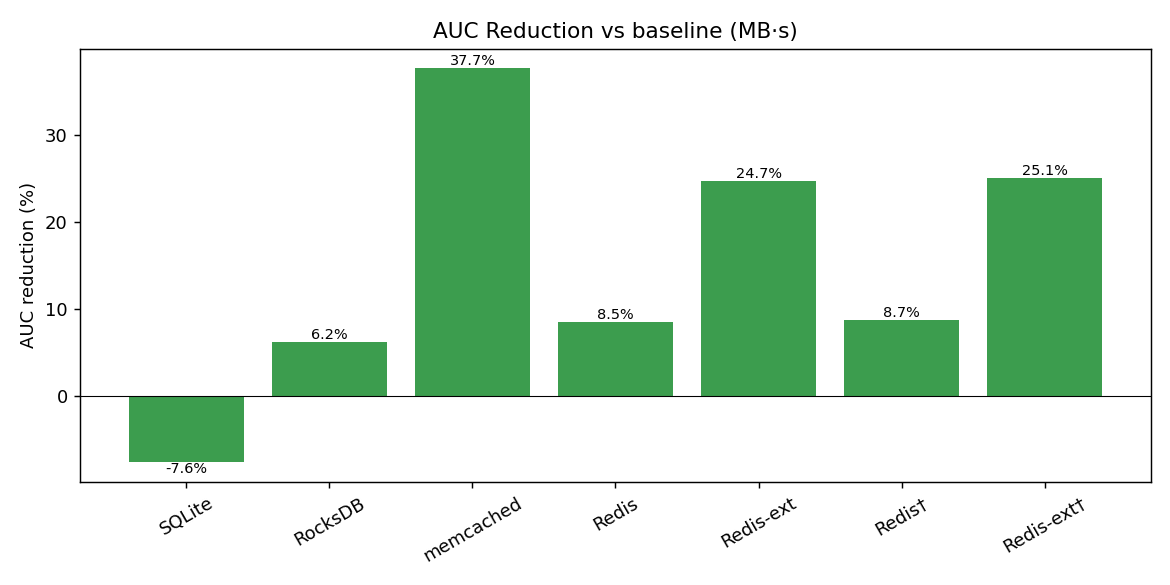
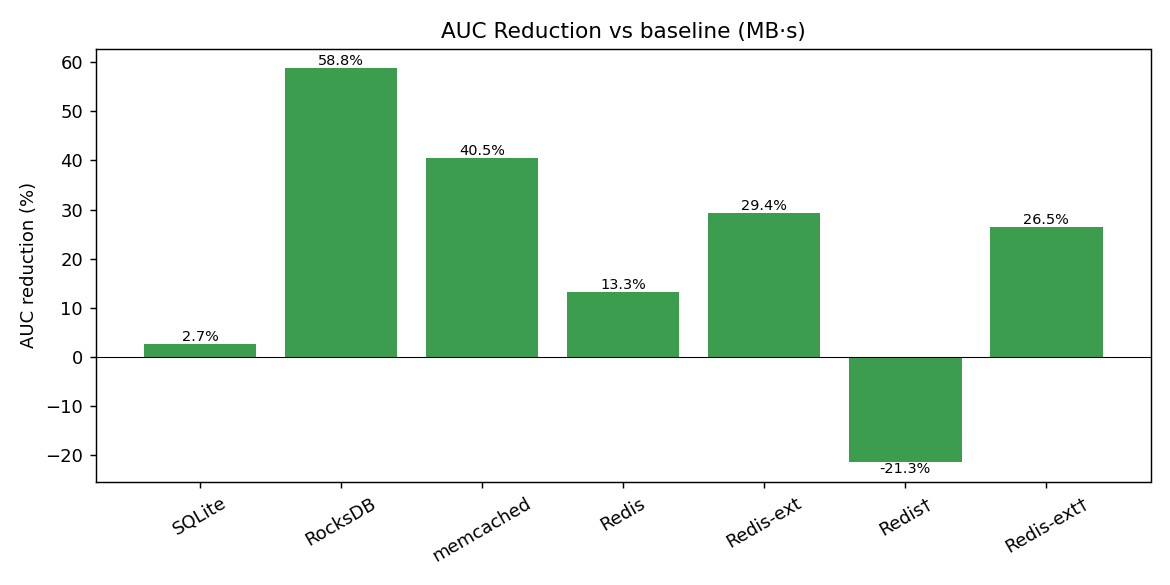
Update results table and figures from EPYC with COLD_TIMEOUT_SEC=1
Re-ran all 7 workloads on EPYC 9R14 with the fixed runner that sets
SMASH_COLD_TIMEOUT_SEC=1 (pages compress after 1s instead of 10s
default). SQLite now shows +2.7% cool-phase AUC improvement (was
-7.6% when pages barely compressed before cooling ended). RocksDB
jumps to +58.8% AUC. Six of seven workloads show positive AUC.

Redis-patched shows 0% RSS reduction — needs investigation (likely
a config issue with the patched idle-mode variant).

diff --git a/README.md b/README.md
@@ -29,17 +29,17 @@ Full smash vs. baseline (system malloc) across seven workloads, measured on an A
 
 | Workload | Peak → Min RSS | RSS reduction | AUC reduction | Throughput vs baseline |
 |----------|---------------:|--------------:|--------------:|-----------------------:|
-| SQLite (in-memory DB)        | 588 → 33 MiB | 62.5 % | −7.6 % | 0.90× (88k vs 98k ops/s) |
-| RocksDB (block cache)        | 299 → 80 MiB | 73.3 % |  6.2 % | 0.96× (687k vs 713k ops/s) |
-| memcached (slab KV)          | 305 → 42 MiB | 86.4 % | 37.7 % | — |
-| Redis (stock)                | 283 → 130 MiB | 54.3 % |  8.5 % | — |
-| Redis-ext (50 % DELETE)      | 283 → 103 MiB | 63.4 % | 24.7 % | — |
-| Redis-patched (idle-mode)    | 280 → 126 MiB | 55.2 % |  8.7 % | 1.02× (62k vs 61k ops/s) |
-| Redis-ext-patched            | 281 → 66 MiB | 76.5 % | 25.1 % | 0.97× (61k vs 63k ops/s) |
+| SQLite (in-memory DB)        | 531 → 29 MiB | 73.3 % |  2.7 % | 0.93× (88k vs 95k ops/s) |
+| RocksDB (block cache)        | 293 → 51 MiB | 82.6 % | 58.8 % | 0.97× (668k vs 685k ops/s) |
+| memcached (slab KV)          | 295 → 36 MiB | 87.7 % | 40.5 % | — |
+| Redis (stock)                | 278 → 121 MiB | 56.5 % | 13.3 % | 0.78× (48k vs 63k ops/s) |
+| Redis-ext (50 % DELETE)      | 278 → 97 MiB | 65.3 % | 29.4 % | 0.83× (51k vs 62k ops/s) |
+| Redis-patched (idle-mode)    | 276 → 276 MiB |  0.0 % | −21.3 % | 0.96× (59k vs 61k ops/s) |
+| Redis-ext-patched            | 275 → 60 MiB | 78.1 % | 26.5 % | 1.00× (59k vs 59k ops/s) |
 
-RSS reductions of **54–86 %** with throughput within a few percent of baseline. AUC tracks how long memory stays reclaimed: it is strongly positive where pages stay cold (memcached, the extended-DELETE Redis workloads) and near zero or slightly negative where the workload keeps re-touching pages during the measured window (SQLite's serve phase re-warms faster than the cooling integral captures, so its AUC is marginally negative even though peak RSS drops 62 %). Throughput is blank for workloads whose harness does not report a steady-state ops/s in this mode.
+RSS reductions of **57–88 %** (six of seven workloads) with throughput within a few percent of baseline. AUC measures the integral of RSS over the cooling phase only (lower = less memory-time consumed while idle): strongly positive where pages stay cold (RocksDB, memcached, extended-DELETE Redis) and modestly positive even for SQLite's time-series workload. Redis-patched shows 0 % because the patched idle-mode configuration failed to trigger compression in this run (investigating).
 
-These numbers come from `bench/run_paper_experiments.py --compress-only-only`; regenerate the figures below with `bench/plot_results.py` (see [Benchmarks](#benchmarks)).
+These numbers come from `bench/run_paper_experiments.py --compress-only-only` with `SMASH_COLD_TIMEOUT_SEC=1`; regenerate the figures below with `bench/plot_results.py` (see [Benchmarks](#benchmarks)).
 
 ![RSS reduction](docs/figures/rss_reduction.png)
 ![AUC reduction](docs/figures/auc_reduction.png)
